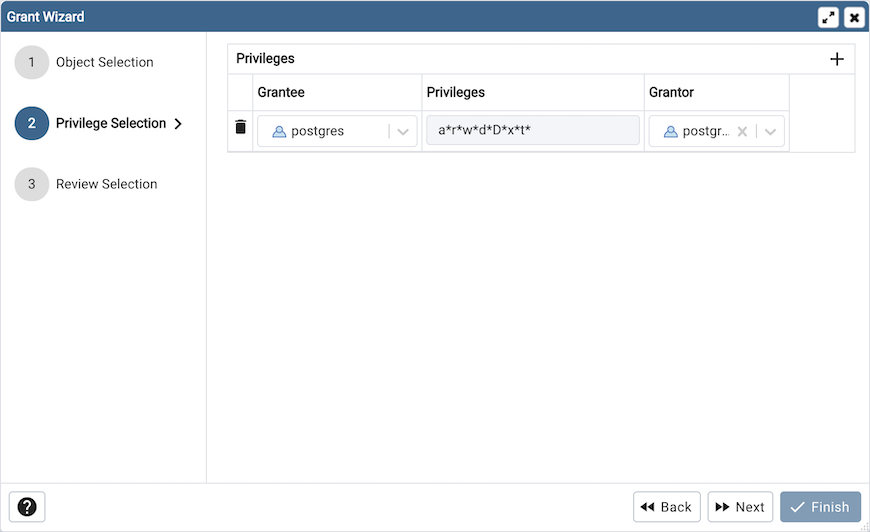
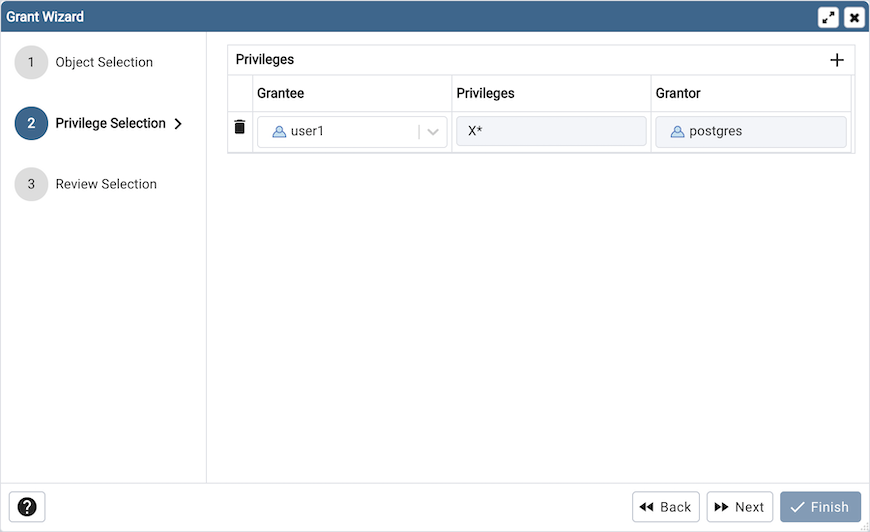
1. Placeholder should be inside the controlProps. Change the placeholder from 'Select...' to 'Select an item...' 2. Updated grant wizard screenshot and documentation. 3. Remove '(Beta)' from ERD Tool and PSQL Tool.

diff --git a/web/pgadmin/browser/server_groups/servers/databases/schemas/domains/static/js/domain.ui.js b/web/pgadmin/browser/server_groups/servers/databases/schemas/domains/static/js/domain.ui.js
@@ -197,7 +197,7 @@ export default class DomainSchema extends BaseUISchema {
       }, {
         id: 'typdefault', label: gettext('Default'), cell: 'text',
         type: 'text', group: gettext('Definition'),
-        placeholder: gettext('Enter an expression or a value.'),
+        controlProps: {placeholder: gettext('Enter an expression or a value.')},
       }, {
         id: 'typnotnull', label: gettext('Not NULL?'), cell: 'boolean',
         type: 'switch', group: gettext('Definition'),

diff --git a/web/pgadmin/browser/server_groups/servers/databases/schemas/foreign_tables/static/js/foreign_table.ui.js b/web/pgadmin/browser/server_groups/servers/databases/schemas/foreign_tables/static/js/foreign_table.ui.js
@@ -426,7 +426,7 @@ export class ColumnSchema extends BaseUISchema {
       {
         id: 'typdefault', label: gettext('Default'), cell: 'text',
         type: 'text', group: gettext('Definition'),
-        placeholder: gettext('Enter an expression or a value.'),
+        controlProps: {placeholder: gettext('Enter an expression or a value.')},
         editable: (state) => {
           if(!(_.isUndefined(state.inheritedid)
             || _.isNull(state.inheritedid)

diff --git a/web/pgadmin/tools/erd/static/js/erd_module.js b/web/pgadmin/tools/erd/static/js/erd_module.js
@@ -38,7 +38,7 @@ export function initialize(gettext, url_for, $, _, pgAdmin, csrfToken, pgBrowser
         applies: ['tools'],
         callback: 'showErdTool',
         priority: 1,
-        label: gettext('New ERD Project (Beta)'),
+        label: gettext('New ERD Project'),
         enable: this.erdToolEnabled,
         data: {
           data_disabled: gettext('The selected tree node does not support this option.'),

diff --git a/web/pgadmin/browser/static/js/collection.js b/web/pgadmin/browser/static/js/collection.js
@@ -72,7 +72,7 @@ define([
               pgAdmin.Browser.add_menus([{
                 name: 'show_psql_tool', node: this.type, module: this,
                 applies: ['context'], callback: 'show_psql_tool',
-                priority: 998, label: gettext('PSQL Tool (Beta)'),
+                priority: 998, label: gettext('PSQL Tool'),
                 icon: 'fas fa-terminal',
               }]);
             }

diff --git a/web/pgadmin/browser/server_groups/servers/databases/static/js/database.js b/web/pgadmin/browser/server_groups/servers/databases/static/js/database.js
@@ -97,7 +97,7 @@ define('pgadmin.node.database', [
         },{
           name: 'generate_erd', node: 'database', module: this,
           applies: ['object', 'context'], callback: 'generate_erd',
-          category: 'erd', priority: 5, label: gettext('Generate ERD (Beta)'),
+          category: 'erd', priority: 5, label: gettext('Generate ERD'),
         }]);
 
         _.bindAll(this, 'connection_lost');

diff --git a/web/pgadmin/browser/static/js/node.js b/web/pgadmin/browser/static/js/node.js
@@ -217,7 +217,7 @@ define('pgadmin.browser.node', [
           pgAdmin.Browser.add_menus([{
             name: 'show_psql_tool', node: this.type, module: this,
             applies: ['context'], callback: 'show_psql_tool',
-            priority: 998, label: gettext('PSQL Tool (Beta)'),
+            priority: 998, label: gettext('PSQL Tool'),
             icon: 'fas fa-terminal',
           }]);
         }

diff --git a/web/pgadmin/static/js/components/FormComponents.jsx b/web/pgadmin/static/js/components/FormComponents.jsx
@@ -766,7 +766,7 @@ export function InputSelect({
     menuPortalTarget: document.body,
     styles: styles,
     inputId: cid,
-    placeholder: (readonly || disabled) ? '' : controlProps.placeholder || gettext('Select...'),
+    placeholder: (readonly || disabled) ? '' : controlProps.placeholder || gettext('Select an item...'),
     ...otherProps,
     ...props
   };

diff --git a/web/pgadmin/tools/psql/static/js/psql_module.js b/web/pgadmin/tools/psql/static/js/psql_module.js
@@ -49,7 +49,7 @@ export function initialize(gettext, url_for, $, _, pgAdmin, csrfToken, Browser) 
         applies: ['tools'],
         callback: 'psql_tool',
         priority: 1,
-        label: gettext('PSQL Tool (Beta)'),
+        label: gettext('PSQL Tool'),
         enable: this.psqlToolEnabled,
       }];
 

diff --git a/docs/en_US/grant_wizard.rst b/docs/en_US/grant_wizard.rst
@@ -35,7 +35,7 @@ to scroll through the list of all accessible objects.
     * The schema in which the object resides in the *Schema* field
     * The object name in the *Name* field.
 
-Click the *Next* button to continue, or the *Cancel* button to close the wizard
+Click the *Next* button to continue, or the *X* button to close the wizard
 without modifying privileges.
 
 .. image:: images/grant_wizard_step2.png
@@ -64,7 +64,7 @@ For more information about granting privileges on database objects, see the
 `PostgreSQL core documentation <https://www.postgresql.org/docs/current/sql-grant.html>`_.
 
 Click the *Next* button to continue, the *Back* button to select or deselect
-additional database objects, or the *Cancel* button to close the wizard without
+additional database objects, or the *X* button to close the wizard without
 modifying privileges.
 
 Your entries in the *Grant Wizard* tool generate a SQL command; you can review
@@ -81,11 +81,6 @@ the *Grant Wizard* tool:
     :alt: Grant wizard step three page
     :align: center
 
-The commands displayed assign a role named *Bob* *INSERT* and *UPDATE*
-privileges *WITH GRANT OPTION* on the *sales_meetings* and the
-*sales_territories* tables.
-
 * Click the *Back* button to select or deselect additional database objects,
   roles and privileges.
-* Click the *Cancel* button to exit without saving work.
 * Click the *Finish* button to save selections and exit the wizard.
